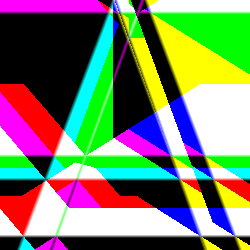
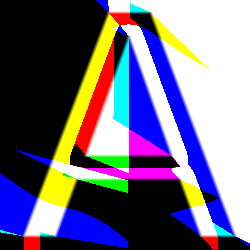
fix

diff --git a/pkg/curve.go b/pkg/curve.go
@@ -27,37 +27,41 @@ func NewCurve(def CurveDef) *Curve {
 	return b
 }
 
-func (c1 *Curve) IsConnected(c2 *Curve) bool {
+func (curve *Curve) IsConnected(c2 *Curve) bool {
 
-	N := len(c1.Points)
-	a := c1.Points[N-1]
+	N := len(curve.Points)
+	a := curve.Points[N-1]
 	s := c2.Points[0]
 
 	return (s == a)
 }
 
-func (c1 *Curve) doLowResolutionSampling() {
+func (curve *Curve) doLowResolutionSampling() {
 
 	for i := range 65 {
 		t := fixed.Int26_6(i)
-		p := c1.def.GetLowResSample(t)
-		c1.Points = append(c1.Points, p)
+		p := curve.def.GetLowResSample(t)
+		curve.Points = append(curve.Points, p)
 	}
 
-	x0, y0 := unpack_p26_6(c1.Points[0])
-	x1, y1 := unpack_p26_6(c1.Points[len(c1.Points)-1])
-	c1.DirectionVec = vec(x0, x1, y0, y1)
+	x0, y0 := unpack_p26_6(curve.Points[0])
+	x1, y1 := unpack_p26_6(curve.Points[len(curve.Points)-1])
+	curve.DirectionVec = vec(x0, x1, y0, y1)
 }
 
-func (c1 *Curve) GetPsudoMinimumDistance(xp, yp float64) (float64, float64, float64) {
-	switch s := c1.def.Params().(type) {
+func (curve *Curve) GetPsudoMinimumDistance(xp, yp float64) (float64, float64, float64) {
+	switch s := curve.def.Params().(type) {
 	case Line:
 
 		xp0, yp0 := unpack_p26_6(s.P0)
 		xp1, yp1 := unpack_p26_6(s.P1)
+
 		A := vec(xp0, yp0, xp, yp)
 		B := vec(xp0, yp0, xp1, yp1)
+
 		t := A.dot(B) / B.dot(B)
+		t = clamp(t, 0, 1)
+
 		cx := xp0 + t*(xp1-xp0)
 		cy := yp0 + t*(yp1-yp0)
 		C := vec(xp, yp, cx, cy)
@@ -68,6 +72,7 @@ func (c1 *Curve) GetPsudoMinimumDistance(xp, yp float64) (float64, float64, floa
 		return 0.0, 0.0, 0.0
 
 	case CubicBezier:
+
 		return 0.0, 0.0, 0.0
 
 	}
@@ -75,11 +80,11 @@ func (c1 *Curve) GetPsudoMinimumDistance(xp, yp float64) (float64, float64, floa
 	return 0.0, 0.0, 0.0
 }
 
-func (c1 *Curve) FindMinDistance(p0 fixed.Point26_6) (float64, fixed.Point26_6) {
+func (curve *Curve) FindMinDistance(p0 fixed.Point26_6) (float64, fixed.Point26_6) {
 	r := math.MaxFloat64
 	var p fixed.Point26_6
 
-	for _, p1 := range c1.Points {
+	for _, p1 := range curve.Points {
 		d := dist(p0, p1)
 		if d < r {
 			r = d

diff --git a/pkg/color.go b/pkg/color.go
@@ -11,30 +11,33 @@ const (
 	RED   EdgeColor = 1 << 0 // = 1 (bit 0)
 	GREEN           = 1 << 1 // = 2 (bit 1)
 	BLUE            = 1 << 2 // = 4 (bit 2)
+	WHITE           = RED | GREEN | BLUE
 	CLEAR           = 0x00
 )
 
-func colorize(cons []*Contour) {
+func colorize(contours []*Contour) {
 
 	// each  edge will get a pair of colors
-	// adjacent ones will atleast have one color in common
-	colors := []EdgeColor{RED, GREEN, BLUE}
-	ci := 0
+	// adjacent ones will at least have one color in common
 
-	for i := range cons {
-		edges := cons[i].edges
-		for j := 1; j < len(edges); j += 1 {
-			a := edges[j-1]
-			b := edges[j]
-			ci = ci + 1
-			seed1 := colors[ci%3]
-			seed2 := colors[(ci+1)%3]
-			seed3 := colors[(ci+2)%3]
+	var current EdgeColor
 
-			if a.Curve.IsConnected(b.Curve) {
-				a.Color = seed1 | seed2
-				b.Color = seed1 | seed3
+	for _, contour := range contours {
+		edges := contour.edges
+		if len(edges) == 1 {
+			current = WHITE
+		} else {
+			current = RED | BLUE
+		}
+
+		for _, edge := range edges {
+			edge.Color = current
+			if current.Has(RED | GREEN) {
+				current = GREEN | BLUE
+			} else {
+				current = RED | GREEN
 			}
+
 		}
 	}
 

diff --git a/pkg/debug.go b/pkg/debug.go
@@ -4,11 +4,11 @@ import (
 	"image/color"
 )
 
-func (c1 *Curve) Debug(g *Glyph, color color.RGBA, scaler *Metrics) {
+func (curve *Curve) Debug(g *Glyph, color color.RGBA, scaler *Metrics) {
 	img := g.Image()
 	bounds := img.Bounds()
 
-	for i, p := range c1.Points {
+	for i, p := range curve.Points {
 		px, py := scaler.ToPixel(p)
 
 		if px < bounds.Min.X || px >= bounds.Max.X ||
@@ -16,7 +16,7 @@ func (c1 *Curve) Debug(g *Glyph, color color.RGBA, scaler *Metrics) {
 			continue
 		}
 
-		if i == len(c1.Points)-1 {
+		if i == len(curve.Points)-1 {
 			for dx := -1; dx <= 1; dx++ {
 				for dy := -4; dy <= 4; dy++ {
 					x, y := px+dx, py+dy

diff --git a/cmd/msdf/main.go b/cmd/msdf/main.go
@@ -15,9 +15,9 @@ func main() {
 		Debug:      true,
 	}
 
-	bank := []rune{'A'}
+	bank := []rune{'+'}
 
-	tex, _ := msdf.New("/home/mo/.local/share/fonts/FiraCode/FiraCodeNerdFont-Regular.ttf", cfg)
+	tex, _ := msdf.New("/Users/mohammad.mohammadzade/Library/Fonts/FiraCodeNerdFont-Regular.ttf", cfg)
 	for _, c := range bank {
 		fmt.Println(string(c))
 		glyph := tex.Get(c)

diff --git a/pkg/sdf.go b/pkg/sdf.go
@@ -111,8 +111,6 @@ func getDistance(contours []*Contour, c EdgeColor, x, y float64) uint8 {
 
 	}
 
-	fmt.Printf("distance: %f\n", distance)
-
 	pointVec := vec(x, y, x1, y1)
 
 	side := sign(edgeDirectionVec.cross(pointVec))
